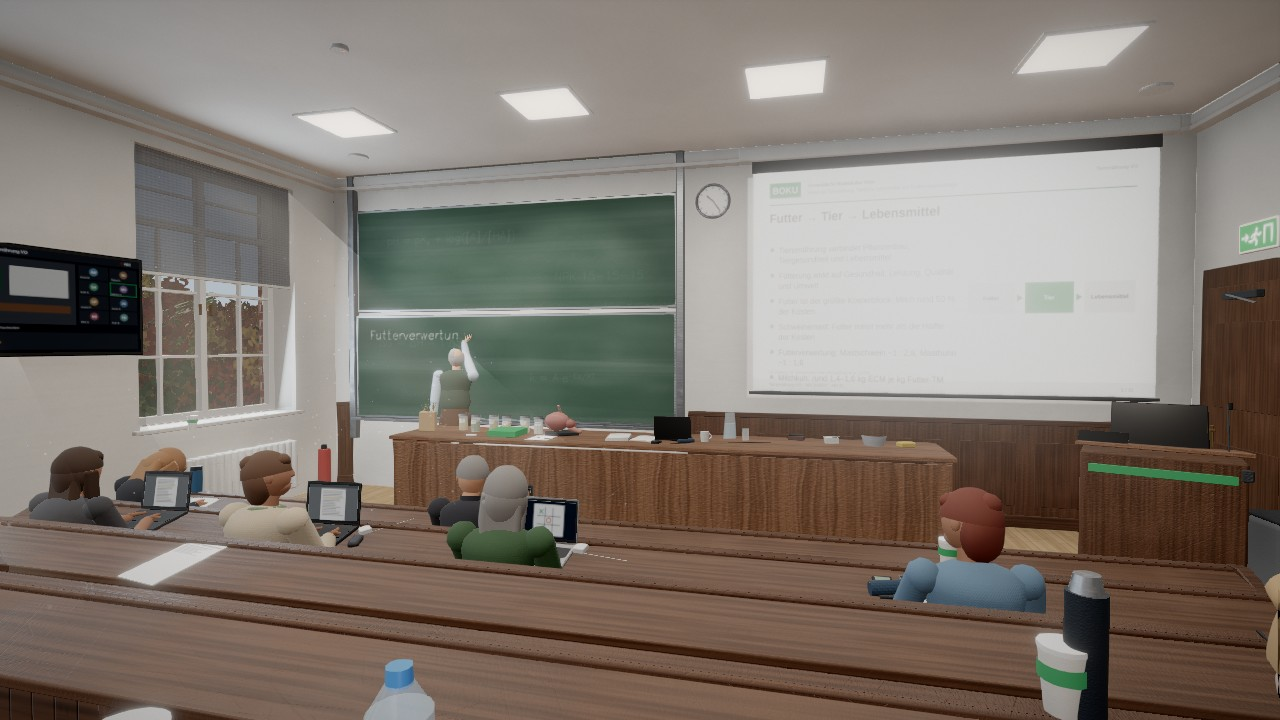
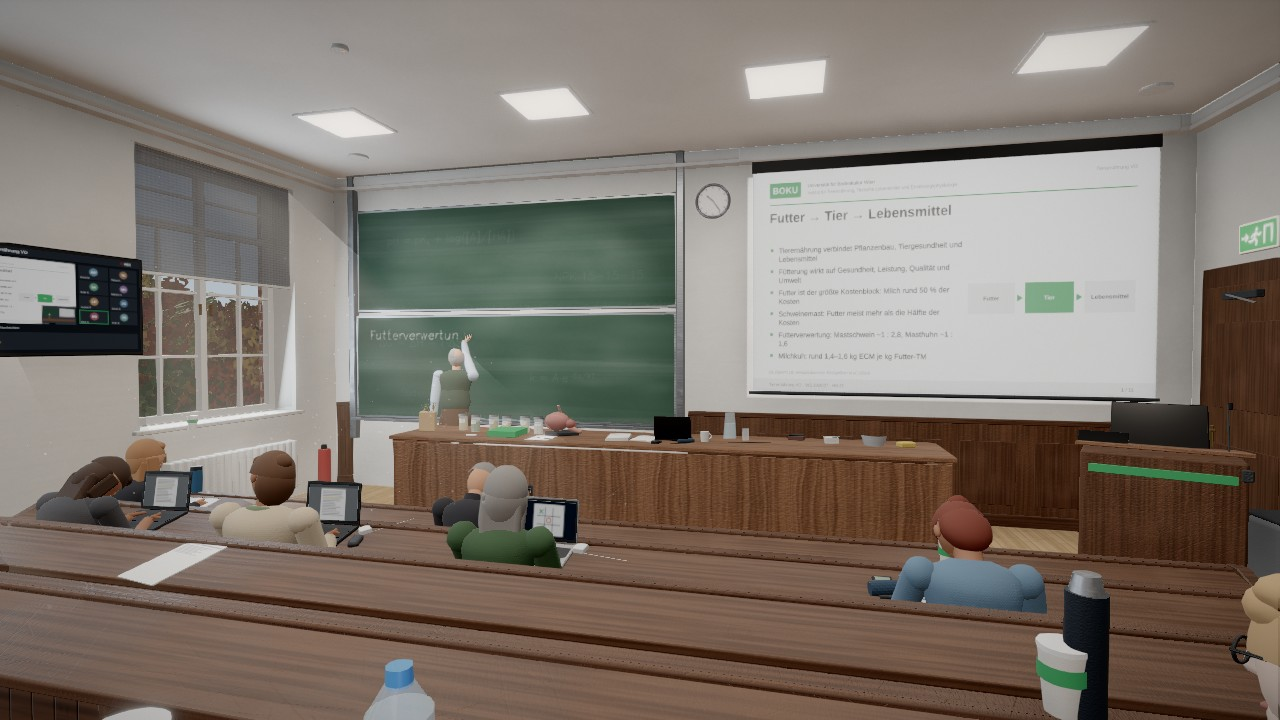
Preset-Screenshots und Performance-Tabelle mit lesbaren Folien
Claude-Session: https://claude.ai/code/session_0117T88ENHFcjcmrZoivZCwB

diff --git a/docs/PERFORMANCE.md b/docs/PERFORMANCE.md
@@ -15,19 +15,19 @@ Hauptbild und Post-Stack.
 <!--PERF-TABLE-->
 | Stufe | Blick | Draw Calls | Dreiecke | Geometrien | Texturen | Shader-Programme | Bildzeit SwiftShader* |
 |---|---|---|---|---|---|---|---|
-| Niedrig | Sitzplatz | 151 | 1 148 890 | 137 | 166 | 93 | 7,9 ms |
-| Niedrig | Laptop | 140 | 1 143 882 | 137 | 166 | 93 | 34,3 ms |
-| Mittel | Sitzplatz | 249 | 1 853 281 | 149 | 200 | 109 | 11,6 ms |
-| Mittel | Laptop | 244 | 1 847 677 | 149 | 208 | 118 | 61,7 ms |
-| Hoch | Sitzplatz | 318 | 2 720 891 | 143 | 206 | 111 | 16,4 ms |
-| Hoch | Laptop | 315 | 2 715 887 | 143 | 214 | 120 | 46 ms |
-| Ultra | Sitzplatz | 320 | 4 774 770 | 145 | 203 | 110 | 14 ms |
-| Ultra | Laptop | 314 | 4 769 346 | 145 | 211 | 119 | 42,2 ms |
+| Niedrig | Sitzplatz | 160 | 1 151 110 | 146 | 166 | 93 | 5,5 ms |
+| Niedrig | Laptop | 146 | 1 145 682 | 146 | 166 | 93 | 11,7 ms |
+| Mittel | Sitzplatz | 244 | 1 852 603 | 144 | 199 | 109 | 15,8 ms |
+| Mittel | Laptop | 241 | 1 847 599 | 144 | 207 | 118 | 60,7 ms |
+| Hoch | Sitzplatz | 321 | 2 721 311 | 146 | 206 | 111 | 15,9 ms |
+| Hoch | Laptop | 315 | 2 715 887 | 146 | 214 | 120 | 66,8 ms |
+| Ultra | Sitzplatz | 320 | 4 775 250 | 145 | 203 | 110 | 17,4 ms |
+| Ultra | Laptop | 316 | 4 769 946 | 145 | 211 | 119 | 53,2 ms |
 
 \* CPU-Rasterizer, nur relativ vergleichbar. Gemessen am 2026-10-28.
 <!--/PERF-TABLE-->
 
-Verlauf auf „Mittel“ in der Messszene der Tabelle: **278 → 249** Draw Calls (Laptop-Blick 273 → 244), Budget ≤ 250 eingehalten.
+Verlauf auf „Mittel“ in der Messszene der Tabelle: **278 → 244** Draw Calls (Laptop-Blick 273 → 241), Budget ≤ 250 eingehalten.
 Maßnahmen: Außenwelt und Fahrzeuge werfen keine Schatten, Rollokästen gebatcht, Bloom mit 6 statt 8 Mip-Stufen, Paulinenwarte und
 Mülltrennung mit je einem Material. Zusammensetzung (Messung in Ruhe): 2 Schattenkaskaden ≈ 96, Hauptbild ≈ 110, Post-Stack 40.
 Vorher hatte das Zusammenführen der Figuren (53 → 2 SkinnedMeshes) auf „Niedrig“ schon 213 → 165 gebracht (jetzt 151).

diff --git a/docs/ABSCHLUSS.md b/docs/ABSCHLUSS.md
@@ -34,7 +34,7 @@ Legende: ✅ umgesetzt · ◐ teilweise / mit dokumentierter Abweichung · ✗ n
 |---|---|---|---|
 | 2.1 | Modulare Struktur, Build in eine HTML-Datei | ✅ | `src/*`, `tools/build.mjs` |
 | 2.1 | Qualitätsstufen + automatische Erkennung | ✅ | GPU-Erkennung beim ersten Start, Bildzeitmessung im Menü (Empfehlung für den nächsten Start), manuelle Wahl |
-| 2.1 | 60 fps Iris Xe „Mittel“, Draw Calls ≤ 250 | ◐ | Draw Calls „Mittel“ 249 (Sitzplatz) / 244 (Laptop), alle Passes inkl. Schatten und Post (`docs/PERFORMANCE.md`); fps auf echter GPU in dieser Umgebung nicht messbar (nur CPU-Rasterizer) |
+| 2.1 | 60 fps Iris Xe „Mittel“, Draw Calls ≤ 250 | ◐ | Draw Calls „Mittel“ 244 (Sitzplatz) / 241 (Laptop), alle Passes inkl. Schatten und Post (`docs/PERFORMANCE.md`); fps auf echter GPU in dieser Umgebung nicht messbar (nur CPU-Rasterizer) |
 | 2.1 | Pointer Lock (Standard an, Fallback), Gamepad | ✅ | `src/core/input.js`, Einstellung „Mauszeiger einfangen“ |
 | 2.2 | Tageslicht + God Rays, Deckenlicht als Flächen, Beamer als Spot mit Projektion | ✅ | `lighting.js`, `fixtures.js` (Spot mit Folie ab „Hoch“) |
 | 2.2 | Indirektes Licht (PMREM aus der Raumszene), AO ab „Mittel“ | ✅ | `bakeEnvironment`, N8AO |

diff --git a/docs/CHANGELOG.md b/docs/CHANGELOG.md
@@ -50,7 +50,7 @@ Komplette Neuentwicklung nach `AUFTRAG_V2.md`. Version 1 liegt unverändert in `
 ### Endkontrolle (vor Auslieferung)
 - Beamer-Projektion ab „Hoch“ deckungsgleich mit der Leinwand (perspektivischer Gitter-Warp statt geschätzter Texturgröße).
 - Tiefenschärfe im Laptop-/Heftblick auf den gemessenen Abstand fokussiert (Bildschirm war unscharf).
-- Draw Calls „Mittel“ 278 → 249 (Außenwelt/Fahrzeuge ohne Schatten, Materialien zusammengelegt, Bloom 6 Stufen).
+- Draw Calls „Mittel“ 278 → unter 250 (Außenwelt/Fahrzeuge ohne Schatten, Materialien zusammengelegt, Bloom 6 Stufen).
 - Balancing mit 80 Läufen je Stufe: 95 / 54 / 35 / 11 % Erfolgsquote.
 - Alle Dokumentationsbilder mit dem fertigen Build neu erzeugt; Screenshot-Werkzeug robust gegen Abstürze des CPU-Rasterizers.
 
